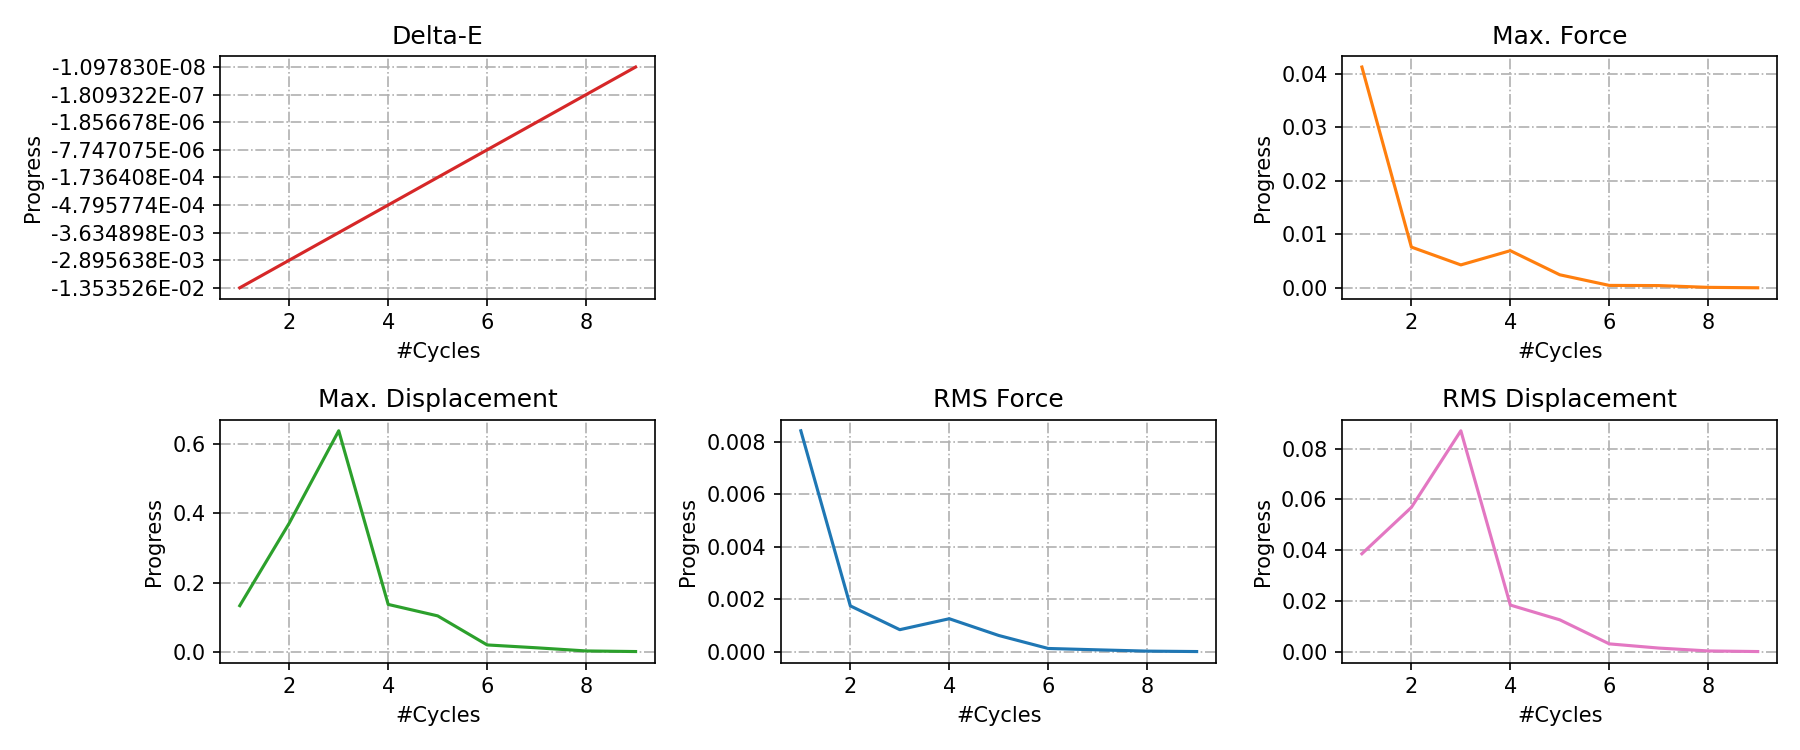
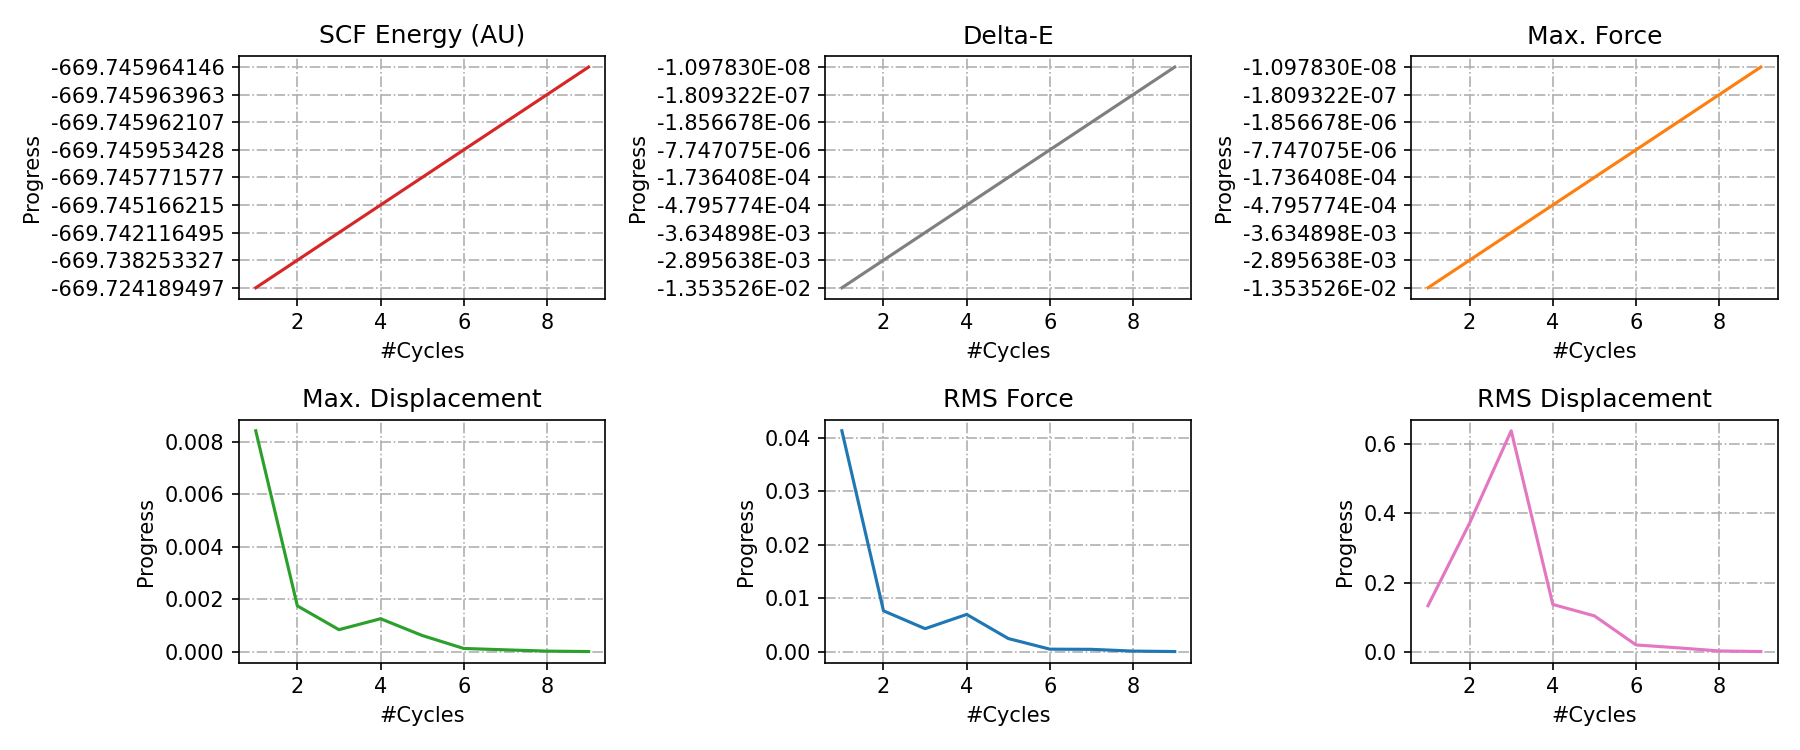
Added SCF Done Keyword

diff --git a/gaussian_tools/gaussian_fileparser.py b/gaussian_tools/gaussian_fileparser.py
@@ -15,6 +15,7 @@ import numpy as np
 from matplotlib import ticker
 import matplotlib.pyplot as plt
 
+# Printing the title of the program and the author's name.
 print("#-------| Python Program to Parse Gaussian Optimization Log Files |-------#")
 print("#-------| Written by AjayKhanna(@samdig) | -------#")
 print("#-------| Running | -------#")
@@ -37,7 +38,12 @@ def pattern_search(pattern,filename):
     if pattern == "Predicted change in Energy=":
         for line in filename:
             for match in re.finditer(pattern, line):
-                dummy.append(line.split()[3].split("=")[1].replace("D", "E"))     
+                dummy.append(line.split()[3].split("=")[1].replace("D", "E"))
+    elif pattern == "SCF Done:":
+        for line in filename:
+            for match in re.finditer(pattern, line):
+                #print(line.split()[4])
+                dummy.append(line.split()[4])
     else:
         for line in filename:
             for match in re.finditer(pattern, line):
@@ -46,19 +52,21 @@ def pattern_search(pattern,filename):
 
 # Creating a list of strings and then calling the function pattern_search() to search for the strings
 # in the file.
-search_patterns = ["Predicted change in Energy=",
+search_patterns = ["SCF Done:",
+                   "Predicted change in Energy=",
                    "Maximum Force", 
                    "RMS     Force",
                    "Maximum Displacement",
                    "RMS     Displacement"]
 
 # Searching for the pattern in the file and returning a list of values that match the pattern.
-delta_e   = np.array(pattern_search(search_patterns[0], open(args.input.name)))
-delta_e   = np.array([item.replace(" ",",") for item in delta_e])
-max_force = np.array(pattern_search(search_patterns[1], open(args.input.name)))
-rms_force = np.array(pattern_search(search_patterns[2], open(args.input.name)))
-max_displ = np.array(pattern_search(search_patterns[3], open(args.input.name)))
-rms_displ = np.array(pattern_search(search_patterns[4], open(args.input.name)))
+scf_energy = np.array(pattern_search(search_patterns[0], open(args.input.name)))
+delta_e    = np.array(pattern_search(search_patterns[1], open(args.input.name)))
+delta_e    = np.array([item.replace(" ",",") for item in delta_e])
+max_force  = np.array(pattern_search(search_patterns[1], open(args.input.name)))
+rms_force  = np.array(pattern_search(search_patterns[2], open(args.input.name)))
+max_displ  = np.array(pattern_search(search_patterns[3], open(args.input.name)))
+rms_displ  = np.array(pattern_search(search_patterns[4], open(args.input.name)))
 
 # Creating a 2x3 grid of plots.
 #formatter = ticker.ScalarFormatter(useMathText=True)
@@ -66,21 +74,24 @@ rms_displ = np.array(pattern_search(search_patterns[4], open(args.input.name)))
 #formatter.set_powerlimits((1,1))
 
 fig, axs = plt.subplots(2, 3, figsize=(12, 5))
-axs[0][1].set_visible(False)
+#axs[0][1].set_visible(False)
 
-axs[0, 0].plot(np.arange(1, len(delta_e)+1), delta_e, 'tab:red',)
-axs[0, 0].set_title('Delta-E') # Ploting the Delta-E
+axs[0, 0].plot(np.arange(1, len(scf_energy)+1), scf_energy, 'tab:red',)
+axs[0, 0].set_title('SCF Energy (AU)') # Ploting the SCF Energy
 
-axs[0, 2].plot(np.arange(1, len(max_force)+1), max_force, 'tab:orange')
+axs[0, 1].plot(np.arange(1, len(scf_energy)+1), delta_e, 'tab:grey',)
+axs[0, 1].set_title('Delta-E') # Ploting the Delta-E
+
+axs[0, 2].plot(np.arange(1, len(scf_energy)+1), max_force, 'tab:orange')
 axs[0, 2].set_title('Max. Force') # Ploting the Max. Force
 
-axs[1, 0].plot(np.arange(1, len(max_displ)+1), max_displ, 'tab:green')
+axs[1, 0].plot(np.arange(1, len(scf_energy)+1), max_displ, 'tab:green')
 axs[1, 0].set_title('Max. Displacement') # Ploting the Max. Displacement
 
-axs[1, 1].plot(np.arange(1, len(rms_force)+1), rms_force, 'tab:blue')
+axs[1, 1].plot(np.arange(1, len(scf_energy)+1), rms_force, 'tab:blue')
 axs[1, 1].set_title('RMS Force') # Ploting the RMS Force
 
-axs[1, 2].plot(np.arange(1, len(rms_displ)+1), rms_displ, 'tab:pink')
+axs[1, 2].plot(np.arange(1, len(scf_energy)+1), rms_displ, 'tab:pink')
 axs[1, 2].set_title('RMS Displacement') # Ploting the RMS Displacement
 
 # Setting the x and y labels for each of the subplots.
